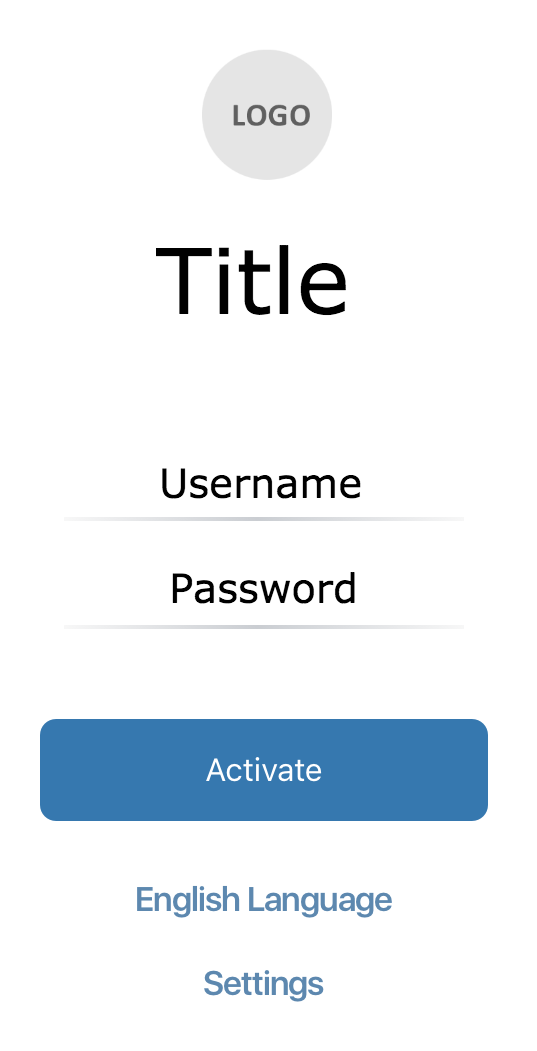
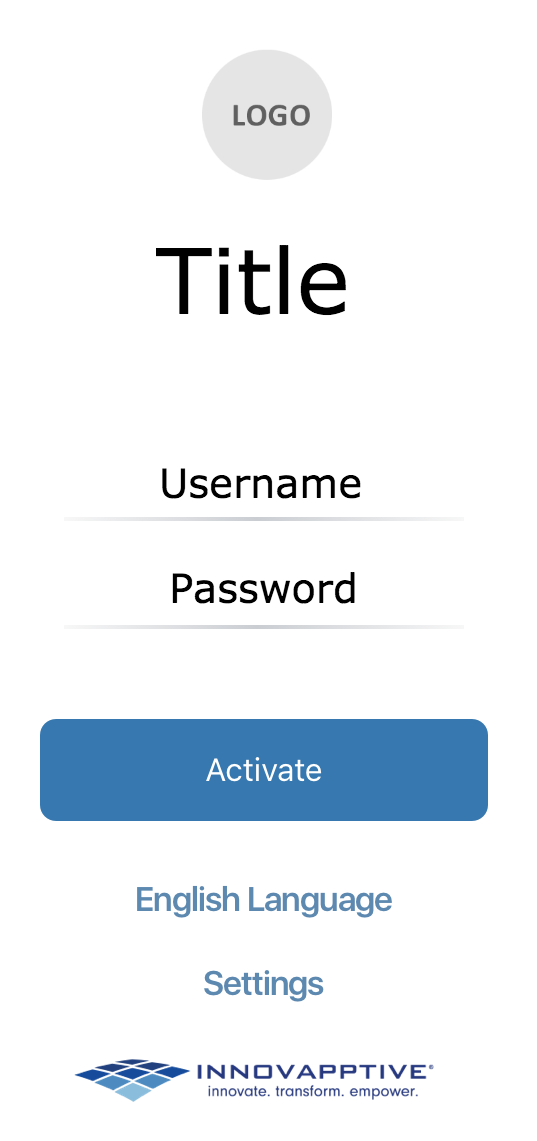
yesgit add . these are last minute changes

diff --git a/src/app/app-designer/devicepage/devicepage.component.html b/src/app/app-designer/devicepage/devicepage.component.html
@@ -24,7 +24,7 @@
             </div>
             <span class="device-area__rotate-icon" (click)="rotateScreen(device.value)" [hidden]="!sh.showhide.show"></span>
             <div class="col-md-4 pull-right text-right" [hidden]="sh.showhide.show">
-              <button class="btn btn-success" (click)="downloadJSON()">Save</button>
+              <button class="btn btn-success btn-download" [disabled]="updated != true ? true : null " (click)="downloadJSON()">Save</button>
               <button class="btn btn-default">Preview</button>
             </div>
           </div>
@@ -46,12 +46,16 @@
                 <!-- {{data.dragData | json}} -->
                 <div class="onborad-login">
                   <img class="onborad-login__logo img-circle"  src="../../../../assets/img/floorplans/default/{{fileName}}" />
-                  <div class="onborad-login__name">{{floorplan1Title.value}}</div>
+                  <div class="onborad-login__name" [ngStyle]="{'color': floorplan1TitleColor.value }">{{floorplan1Title.value}}</div>
                   <input class="onborad-login__text" type="text" placeholder="username" [ngStyle]="{'border-color': floorplan1FormBC.value }" /> 
                   <input class="onborad-login__pwd" type="password" placeholder="password" [ngStyle]="{'border-color': floorplan1FormBC.value }" /> 
-                  <button class="onborad-login__btn" [ngStyle]="{'background-color': floorplan1FormBBG.value, 'color': floorplan1FormBTC.value }">Activate</button>
+                  <div>
+                    <button class="onborad-login__btn" [ngStyle]="{'background-color': floorplan1FormBBG.value, 'color': floorplan1FormBTC.value }">Activate</button>
+                  </div>
                   <a href="javascript:void(0);" [ngStyle]="{'color': floorplan1FormLinkTC.value }" class="onborad-login__link">English Language</a>
                   <a href="javascript:void(0);" [ngStyle]="{'color': floorplan1FormLinkTC.value }" class="onborad-login__link">Settings</a>
+                  <img class="onborad-login__powered-by"  src="../../../../assets/img/floorplans/default/powered-by-logo.png" />
+                  
                 </div>
               </div>
 
@@ -133,7 +137,8 @@
                   <form #floorplan1Form="ngForm" (ngSubmit)="addLoginFormProperties(floorplan1Form)">
                   
                 <div class="tabs__buttons">
-                  <button class="btn btn-primary btn-sm" type="submit" (click)="ShowHidePanel('loginFormProperties')">Done</button>
+                  <button class="btn btn-warning btn-sm" *ngIf="updated == true" type="submit" (click)="ShowHidePanel('loginFormProperties')">Update</button>
+                  <button class="btn btn-primary btn-sm" *ngIf="updated == false" type="submit" (click)="ShowHidePanel('loginFormProperties')">Done</button>
                   <span class="pull-right tabs__close-icon glyphicon glyphicon-remove-circle" (click)="ShowHidePanel('loginFormProperties')"></span>                  
                 </div>
 
@@ -145,6 +150,11 @@
                   <div class="form-group">
                     <label class="tabs__form-label" for="title">Title</label>
                     <input type="text" value="Title" class="form-control" name="title" #floorplan1Title [ngModel]="floorplan1Title.value">
+                  </div>
+
+                  <div class="form-group">
+                    <label class="tabs__form-label" for="titleColor">Title color</label>
+                    <input type="color" value="#000000" class="form-control input-sm" style="width: 50px; padding: 0; border: 0; border-radius: 0; box-shadow: none;" name="titleColor" #floorplan1TitleColor [ngModel]="floorplan1TitleColor.value">
                   </div>
 
                   <div class="form-group">

diff --git a/src/app/app-designer/devicepage/devicepage.component.scss b/src/app/app-designer/devicepage/devicepage.component.scss
@@ -48,8 +48,12 @@
             padding: 48px 30px 85px 35px;
         }
 
+        &.device-area__android{
+            padding: 63px 25px 80px 27px;
+        }
+
         &.device-area__android-tab{
-            padding: 30px 30px 85px 35px;
+            padding: 30px 30px 105px 35px;
         }
     }
 
@@ -80,7 +84,7 @@
 
     &__android{
         background: url("../../../assets/img/android-mobile.png") no-repeat 0 0;
-        width: 260px;
+        width: 266px;
     }
 
     &__android--true{
@@ -288,9 +292,9 @@
     text-align: center;
 
       &__logo{
-          width: 50%;
-          margin: 20px auto 10px auto;
-          min-height: 100px;
+          width: 40%;
+          min-height: 80px;
+          margin: 12px 0;
       }
       &__name{
           font-size: 30px;
@@ -318,6 +322,8 @@
       &__link{
           display: block;
           margin-bottom: 10px;
-          
       }
+    &__powered-by{
+        max-width: 50%;    
+    }
 }

diff --git a/src/app/app.module.ts b/src/app/app.module.ts
@@ -6,7 +6,6 @@ import { RouterModule, Routes, Router } from '@angular/router';
 import { AngularFireModule } from 'angularfire2';
 import { AngularFireDatabaseModule } from 'angularfire2/database';
 import { platformBrowserDynamic } from '@angular/platform-browser-dynamic'
-import { DynamicComponentModule } from 'ng-dynamic';
 
 //import { AlertModule } from 'ngx-bootstrap'; //uncomment this line when we need an alert module
 //import { DragulaModule } from 'ng2-dragula'; //============ third party module ==============//
@@ -62,8 +61,7 @@ import { AppGenerationPortalComponent } from './app-generation-portal/app-genera
     TreeModule,
     SchemaFormModule,
     FormsModule,
-    ReactiveFormsModule,
-    DynamicComponentModule.forRoot({})
+    ReactiveFormsModule
     //AlertModule.forRoot() //uncomment this line when we need an alert module
   ],
   providers: [{provide: WidgetRegistry, useClass: DefaultWidgetRegistry}, Title],

diff --git a/src/app/app-designer/devicepage/devicepage.component.ts b/src/app/app-designer/devicepage/devicepage.component.ts
@@ -114,8 +114,12 @@ export class DevicepageComponent {
         console.log(this.fileName);
     } 
 
+    public updated: boolean = false;
     addLoginFormProperties(form: NgForm){
+        this.updated = true;
+        console.log(this.updated);
         form.value.logo = this.fileName;
+        this.receivedData[0].dragData[0].properties.shift(); //remove first
         this.receivedData[0].dragData[0].properties.push(form.value);
     }
 }

diff --git a/src/app/app-designer/welcome/welcome.component.html b/src/app/app-designer/welcome/welcome.component.html
@@ -1,6 +1,8 @@
 <title>Race Enterprise: App Designer</title>
-<p>
+<p style="padding: 10px;">
   app designer welcome works!
-
+  <br/>
+<br/>
+  
   <a href="/app-designer/applauncher" target="_blank" class="btn btn-primary">Launch app designer</a>
 </p>

diff --git a/src/app/app-generation-portal/app-generation-portal.component.html b/src/app/app-generation-portal/app-generation-portal.component.html
@@ -1,5 +1,5 @@
 <title>Race Enterprise: App generation portal</title>
 
-<p>
+<p style="padding: 10px;">
   app-generation-portal works!
 </p>

diff --git a/src/app/home/home.component.html b/src/app/home/home.component.html
@@ -1,5 +1,5 @@
 <title>Race Enterprise: Home</title>
 
-<p>
+<p style="padding: 10px;">
   This is home
 </p>
